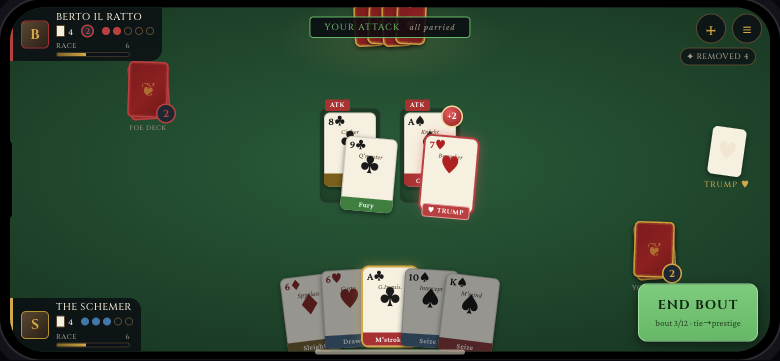
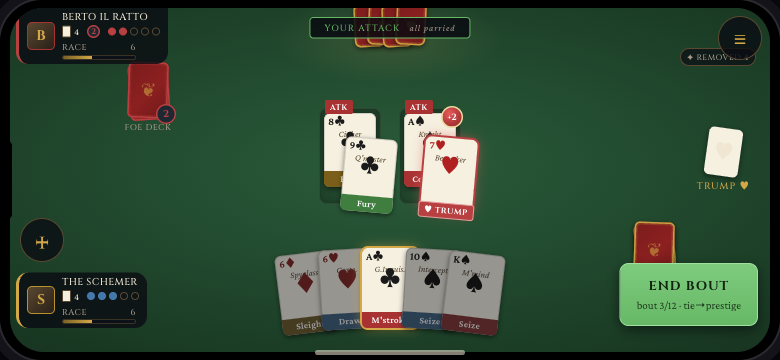
Mobile UI: apply independent UX review (safe areas, legibility, pile-on, log)
Incorporates a cold mobile-UX review of the landscape mockups:
- P0 lifted the hand 24px clear of the home-indicator gesture strip; inset
  identity chips/bars from the notch & home safe areas.
- P0 raised the sub-readable tier: card names 7→9px, ability labels
  7.5→9.5px, deck/race/trump edge labels to 8.5-9.5px, button subtitle 9→11px.
- P0 added the core Durak multi-card PILE-ON / add-follow-up flow (state 3) —
  matching-rank cards glow, a dashed '+ ADD' slot shows where it lands,
  'add another or End Bout' always one tap away. This was the biggest gap.
- P1 tap targets to >=44px (round buttons, action pills, map nodes 40→48px
  with wider spacing); moved the event-log button out of the unreachable
  top-right into left-thumb reach and mocked the full log sheet (state 10).
- P1 defined tap behavior for the deck/trump/removed reference chips and the
  defend re-select edge case; concede now behind a confirm in the menu.
- Added PostMatch ability/relic-pick screen; legible glyphs for log/deck buttons.

24 screens/states total. Verified each in a mobile viewport via Playwright.

Claude-Session: https://claude.ai/code/session_01LuAbzXxZ2J3iKkxCU8R9Y9

diff --git a/docs/design/mobile_ui_mockup.html b/docs/design/mobile_ui_mockup.html
@@ -65,8 +65,8 @@
   .card{position:relative; border-radius:6px; background:var(--card-cream); box-shadow:0 2px 5px rgba(0,0,0,.5), inset 0 0 0 1px rgba(0,0,0,.15); flex-shrink:0;}
   .card .cn{position:absolute; top:3px; left:4px; font-size:11px; font-weight:700; line-height:1; font-family:'Crimson Pro',serif;}
   .card .pip{position:absolute; top:38%; left:50%; transform:translate(-50%,-50%); font-size:20px;}
-  .card .nm{position:absolute; top:15px; left:0; right:0; text-align:center; font-size:7px; font-style:italic; color:#5A4A32; font-family:'Crimson Pro',serif; padding:0 2px; line-height:1;}
-  .card .abl{position:absolute; bottom:0; left:0; right:0; height:13px; display:flex; align-items:center; justify-content:center; font-size:7.5px; font-weight:700; color:#fff; border-radius:0 0 5px 5px; letter-spacing:.2px;}
+  .card .nm{position:absolute; top:16px; left:0; right:0; text-align:center; font-size:9px; font-style:italic; color:#5A4A32; font-family:'Crimson Pro',serif; padding:0 2px; line-height:1;}
+  .card .abl{position:absolute; bottom:0; left:0; right:0; height:16px; display:flex; align-items:center; justify-content:center; font-size:9.5px; font-weight:700; color:#fff; border-radius:0 0 5px 5px; letter-spacing:.2px;}
   .card.red .cn,.card.red .pip{color:var(--red-suit);}
   .card.black .cn,.card.black .pip{color:var(--black-suit);}
   .abl.atk{background:var(--atk);} .abl.def{background:var(--def);} .abl.util{background:var(--util);} .abl.pas{background:var(--pas);}
@@ -77,13 +77,14 @@
   .card.sel{box-shadow:0 0 0 2.5px #FFE9A8, 0 0 22px rgba(255,233,168,.85), 0 6px 14px rgba(0,0,0,.6);}
 
   .bonus{position:absolute; top:-7px; right:-7px; z-index:5; width:22px; height:22px; border-radius:50%; background:radial-gradient(circle at 35% 30%,#E45A5A,var(--atk) 70%); border:1.5px solid #F0D9A0; color:#fff; font-family:'Cinzel',serif; font-weight:700; font-size:9px; display:flex; align-items:center; justify-content:center;}
-  .tflag{position:absolute; bottom:-7px; left:50%; transform:translateX(-50%); z-index:6; background:var(--venetian-red); color:#fff; font-family:'Cinzel',serif; font-size:6.5px; font-weight:700; letter-spacing:.5px; padding:1px 5px; border-radius:3px; white-space:nowrap; border:1px solid #E8A0A0;}
+  .tflag{position:absolute; bottom:-7px; left:50%; transform:translateX(-50%); z-index:6; background:var(--venetian-red); color:#fff; font-family:'Cinzel',serif; font-size:8px; font-weight:700; letter-spacing:.5px; padding:1px 5px; border-radius:3px; white-space:nowrap; border:1px solid #E8A0A0;}
   .card.trumpdef{box-shadow:0 0 0 2px var(--venetian-red), 0 0 12px rgba(220,90,90,.6);}
 
   /* ============ COMPACT IDENTITY STRIP ============ */
   .idstrip{position:absolute; display:flex; align-items:center; gap:7px; padding:4px 8px; background:rgba(10,12,18,.82); border-radius:0 0 12px 0; z-index:30;}
-  .idstrip.top{top:0; left:0; border-left:3px solid var(--venetian-red);}
-  .idstrip.bottom{bottom:0; left:0; border-radius:0 12px 0 0; border-left:3px solid var(--gold);}
+  /* insets keep the always-read player chip clear of the left notch and bottom home strip */
+  .idstrip.top{top:0; left:6px; border-radius:0 0 12px 12px; border-left:3px solid var(--venetian-red);}
+  .idstrip.bottom{bottom:24px; left:6px; border-radius:12px; border-left:3px solid var(--gold);}
   .av{width:28px; height:28px; border-radius:5px; background:linear-gradient(135deg,#5A4830,#2A2018); border:1px solid var(--gold-dark); display:flex; align-items:center; justify-content:center; font-family:'Cinzel',serif; font-weight:700; font-size:14px; color:var(--gold); flex-shrink:0;}
   .idmeta{display:flex; flex-direction:column; gap:2px;}
   .idname{font-family:'Cinzel',serif; font-size:10px; color:var(--parchment); letter-spacing:.3px; line-height:1;}
@@ -97,7 +98,7 @@
   .pd.intel{background:var(--royal-blue); border-color:var(--royal-blue);} .pd.fury{background:var(--venetian-red); border-color:var(--venetian-red);}
   /* race meter mini */
   .race{width:74px;}
-  .race .rl{display:flex; justify-content:space-between; font-size:7px; letter-spacing:.5px; color:var(--dusty-tan); font-family:'Cinzel',serif;}
+  .race .rl{display:flex; justify-content:space-between; font-size:8.5px; letter-spacing:.5px; color:var(--dusty-tan); font-family:'Cinzel',serif;}
   .race .rb{height:5px; border-radius:3px; background:#0C1018; border:1px solid rgba(90,72,48,.6); margin-top:1px; overflow:hidden;}
   .race .rb i{display:block; height:100%; background:linear-gradient(90deg,#7A6224,var(--gold));}
 
@@ -107,17 +108,17 @@
   .deckpile .pc:nth-child(1){transform:rotate(-4deg) translate(1px,2px);}
   .deckpile .pc:nth-child(2){transform:rotate(2deg);}
   .deckpile .cnt{position:absolute; right:-8px; bottom:-6px; width:20px; height:20px; border-radius:50%; background:var(--dark-slate); border:1.5px solid var(--gold); color:var(--gold); font-family:'Cinzel',serif; font-weight:700; font-size:10px; display:flex; align-items:center; justify-content:center; z-index:4;}
-  .deckpile .pl{position:absolute; left:50%; transform:translateX(-50%); bottom:-15px; font-family:'Cinzel',serif; font-size:6.5px; letter-spacing:.5px; color:var(--dusty-tan); white-space:nowrap;}
+  .deckpile .pl{position:absolute; left:50%; transform:translateX(-50%); bottom:-15px; font-family:'Cinzel',serif; font-size:8.5px; letter-spacing:.5px; color:var(--dusty-tan); white-space:nowrap;}
 
   /* trump chip */
   .trump{position:absolute; z-index:25; display:flex; flex-direction:column; align-items:center; gap:3px;}
   .trump .tc{width:34px; height:48px; border-radius:5px; background:var(--card-cream); display:flex; align-items:center; justify-content:center; font-size:20px; box-shadow:0 2px 6px rgba(0,0,0,.5); transform:rotate(8deg);}
-  .trump .tl{font-family:'Cinzel',serif; font-size:8px; letter-spacing:1px; color:var(--gold);}
+  .trump .tl{font-family:'Cinzel',serif; font-size:9.5px; letter-spacing:1px; color:var(--gold);}
 
   /* bout */
   .bout{position:absolute; left:50%; top:43%; transform:translate(-50%,-50%); display:flex; gap:18px; z-index:15;}
   .slot{position:relative; width:62px; height:96px; border-radius:8px; background:rgba(0,0,0,.2); box-shadow:inset 0 0 8px rgba(0,0,0,.35), inset 0 0 0 1px rgba(240,230,210,.12);}
-  .slot .rfa{position:absolute; top:-8px; left:6px; font-family:'Cinzel',serif; font-size:6.5px; font-weight:700; letter-spacing:.5px; padding:1px 5px; border-radius:2px; color:#fff; z-index:5;}
+  .slot .rfa{position:absolute; top:-8px; left:6px; font-family:'Cinzel',serif; font-size:8px; font-weight:700; letter-spacing:.5px; padding:1px 5px; border-radius:2px; color:#fff; z-index:5;}
   .rfa.atk{background:var(--atk);} .rfa.dfn{background:var(--def);}
   .slot .atkc{position:absolute; top:5px; left:5px;}
   .slot .defc{position:absolute; top:30px; left:24px; transform:rotate(5deg); z-index:2;}
@@ -132,26 +133,26 @@
   .ohand .card{width:30px; height:43px; margin:0 -8px;}
   .ohand .card:nth-child(odd){transform:rotate(-3deg) translateY(2px);} .ohand .card:nth-child(even){transform:rotate(3deg);}
 
-  /* player hand fan */
-  .phand{position:absolute; bottom:6px; left:50%; transform:translateX(-50%); display:flex; align-items:flex-end; z-index:35;}
-  .phand .card{width:54px; height:78px; margin:0 -7px; transition:transform .12s;}
-  .phand .card .pip{font-size:22px;} .phand .card .nm{font-size:7px;}
-  .phand .card:nth-child(1){transform:rotate(-7deg) translateY(8px);}
-  .phand .card:nth-child(2){transform:rotate(-3.5deg) translateY(2px);}
+  /* player hand fan — lifted clear of the home-indicator gesture strip */
+  .phand{position:absolute; bottom:24px; left:50%; transform:translateX(-50%); display:flex; align-items:flex-end; z-index:35;}
+  .phand .card{width:56px; height:80px; margin:0 -7px; transition:transform .12s;}
+  .phand .card .pip{font-size:22px;} .phand .card .nm{font-size:9px;}
+  .phand .card:nth-child(1){transform:rotate(-7deg) translateY(5px);}
+  .phand .card:nth-child(2){transform:rotate(-3.5deg) translateY(1px);}
   .phand .card:nth-child(3){transform:rotate(0deg);}
-  .phand .card:nth-child(4){transform:rotate(3.5deg) translateY(2px);}
-  .phand .card:nth-child(5){transform:rotate(7deg) translateY(8px);}
-  .phand .card:nth-child(6){transform:rotate(10deg) translateY(16px);}
+  .phand .card:nth-child(4){transform:rotate(3.5deg) translateY(1px);}
+  .phand .card:nth-child(5){transform:rotate(7deg) translateY(5px);}
+  .phand .card:nth-child(6){transform:rotate(10deg) translateY(10px);}
 
   /* primary action button (thumb zone, bottom-right) */
-  .actbtn{position:absolute; bottom:10px; right:12px; z-index:40; min-width:120px; padding:11px 16px; border-radius:9px; text-align:center; font-family:'Cinzel',serif; font-weight:700; font-size:13px; letter-spacing:1px; box-shadow:0 4px 12px rgba(0,0,0,.5);}
+  .actbtn{position:absolute; bottom:26px; right:12px; z-index:40; min-width:120px; padding:12px 16px; border-radius:9px; text-align:center; font-family:'Cinzel',serif; font-weight:700; font-size:13px; letter-spacing:1px; box-shadow:0 4px 12px rgba(0,0,0,.5);}
   .actbtn.end{background:linear-gradient(180deg,#7ECB7E,var(--sage)); color:#10240F; border:1px solid #9FE09F;}
   .actbtn.take{background:linear-gradient(180deg,#D05858,var(--venetian-red)); color:#fff; border:1px solid #E08888;}
   .actbtn.dis{background:#222A36; color:#5A6470; border:1px solid #333E4E;}
-  .actbtn .small{display:block; font-family:'Crimson Pro',serif; font-size:9px; font-weight:400; letter-spacing:0; opacity:.8; margin-top:1px;}
+  .actbtn .small{display:block; font-family:'Crimson Pro',serif; font-size:11px; font-weight:400; letter-spacing:0; opacity:.85; margin-top:1px;}
 
-  /* secondary round buttons (log, menu) top-right */
-  .roundbtn{position:absolute; z-index:40; width:30px; height:30px; border-radius:50%; background:rgba(10,12,18,.8); border:1px solid var(--bronze); color:var(--gold); display:flex; align-items:center; justify-content:center; font-size:13px;}
+  /* secondary round buttons — 44px tap targets */
+  .roundbtn{position:absolute; z-index:40; width:44px; height:44px; border-radius:50%; background:rgba(10,12,18,.8); border:1px solid var(--bronze); color:var(--gold); display:flex; align-items:center; justify-content:center; font-size:18px;}
 
   /* bonus counters near decks */
   .minitag{position:absolute; z-index:22; font-family:'Cinzel',serif; font-size:8px; letter-spacing:.5px; color:var(--dusty-tan); background:rgba(10,12,18,.7); padding:2px 6px; border-radius:10px; border:1px solid var(--bronze); display:flex; align-items:center; gap:3px;}
@@ -165,10 +166,10 @@
 
   /* contextual action pills above hand */
   .ctxbar{position:absolute; bottom:92px; left:50%; transform:translateX(-50%); z-index:48; display:flex; gap:8px;}
-  .pill{padding:9px 16px; border-radius:22px; font-family:'Cinzel',serif; font-weight:700; font-size:12px; letter-spacing:.5px; box-shadow:0 4px 12px rgba(0,0,0,.5);}
+  .pill{min-height:44px; padding:12px 18px; border-radius:24px; display:flex; align-items:center; font-family:'Cinzel',serif; font-weight:700; font-size:12.5px; letter-spacing:.5px; box-shadow:0 4px 12px rgba(0,0,0,.5);}
   .pill.go{background:linear-gradient(180deg,#7ECB7E,var(--sage)); color:#10240F; border:1px solid #9FE09F;}
   .pill.alt{background:linear-gradient(180deg,#E0C060,var(--gold)); color:#241A06; border:1px solid #F0D98A;}
-  .pill.x{background:#222A36; color:#9aa; border:1px solid #333E4E; padding:9px 13px;}
+  .pill.x{background:#222A36; color:#bcc; border:1px solid #333E4E; padding:12px 16px; font-size:15px;}
 
   /* bottom sheet (ability choice, etc.) */
   .scrim{position:absolute; inset:0; background:rgba(4,4,9,.72); z-index:52;}
@@ -212,9 +213,9 @@
   .rlabel{font-family:'Cinzel',serif; font-size:9px; font-weight:700; letter-spacing:2px; text-align:center; margin-top:5px;}
 
   /* map nodes */
-  .mnode{position:absolute; width:40px; height:40px; border-radius:50%; background:rgba(20,16,10,.85); border:2px solid var(--bronze); display:flex; align-items:center; justify-content:center; font-size:17px; z-index:4;}
+  .mnode{position:absolute; width:48px; height:48px; border-radius:50%; background:rgba(20,16,10,.85); border:2px solid var(--bronze); display:flex; align-items:center; justify-content:center; font-size:20px; z-index:4;}
   .mnode.cur{border-color:var(--gold); box-shadow:0 0 12px rgba(212,168,70,.6);}
-  .mnode .lbl{position:absolute; top:42px; font-family:'Cinzel',serif; font-size:7px; letter-spacing:.5px; color:var(--dusty-tan); white-space:nowrap;}
+  .mnode .lbl{position:absolute; top:49px; font-family:'Cinzel',serif; font-size:8px; letter-spacing:.5px; color:var(--dusty-tan); white-space:nowrap;}
   .mpath{position:absolute; height:2px; background:rgba(120,96,56,.5); transform-origin:left center; z-index:2;}
 
   /* shop/event rows */
@@ -262,7 +263,12 @@
     <h4>6 · REFERENCE EXPANDS ON DEMAND</h4>
     <p>The event log, full deck, and removed pile collapse to <span class="k">tappable counters</span>; tapping opens a sheet. Transient events (ability fired, trump changed) flash as a <span class="k">toast</span> and append to the log, so nothing critical is hover-only or blink-and-miss.</p>
   </div>
+  <div class="ia">
+    <h4>7 · SAFE AREAS RESPECTED</h4>
+    <p>Identity chips inset from the <span class="k">left notch / Dynamic Island</span>; the hand and all bottom bars sit a clear <span class="k">24px above the home-indicator</span> strip so a play-swipe never fights the system home gesture. The right thumb owns the commit button; the left thumb owns the log.</p>
+  </div>
 </div>
+<p class="intro" style="margin-top:8px"><b>This revision</b> incorporates an independent cold mobile-UX review: the hand was lifted off the home strip, card/label type raised from 7px to a readable tier, tap targets brought to ≥44px, the log moved into thumb reach, map nodes enlarged &amp; spaced, and the core <b>multi-card pile-on flow</b> (state 3) and <b>event-log sheet</b> (state 10) added.</p>
 
 <!-- ============================ THE MATCH BOARD ============================ -->
 <h2>The Match Board <span class="tag">— landscape, mid-bout, your turn to attack</span></h2>
@@ -291,9 +297,9 @@
         <!-- opponent hand -->
         <div class="ohand"><div class="card back"></div><div class="card back"></div><div class="card back"></div><div class="card back"></div></div>
 
-        <!-- secondary buttons top-right -->
-        <div class="roundbtn" style="top:6px; right:8px;">☰</div>
-        <div class="roundbtn" style="top:6px; right:44px;">🜊</div>
+        <!-- menu top-right (rarely needed), log moved to left-thumb reach -->
+        <div class="roundbtn" style="top:8px; right:8px;">☰</div>
+        <div class="roundbtn" style="bottom:90px; left:10px;">📜</div>
 
         <!-- phase ribbon -->
         <div class="ribbon">YOUR ATTACK <span class="s">all parried</span></div>
@@ -307,7 +313,7 @@
         </div>
 
         <!-- removed pile counter (off felt, top-right) -->
-        <div class="minitag" style="top:40px; right:14px;">✦ REMOVED 4</div>
+        <div class="minitag" style="top:62px; right:12px;">✦ REMOVED 4</div>
 
         <!-- trump (right edge, on felt) -->
         <div class="trump" style="top:120px; right:20px;">
@@ -419,7 +425,29 @@
     <div class="frame-cap"><b>2 · ATTACK PLAYED</b>The card flies to a bout slot, its ability fires (toast + log entry), and control passes. The action button shows the wait state; the opponent's defense animates back in.</div>
   </div>
 
-  <!-- 3. DEFEND MODE -->
+  <!-- 3. ADD A FOLLOW-UP (multi-card attack — core Durak) -->
+  <div class="frame-block">
+    <div class="phone"><div class="island"></div><div class="home-bar"></div><div class="screen">
+      <div class="felt"></div>
+      <div class="ribbon">YOUR ATTACK <span class="s">add a matching rank, or end</span></div>
+      <div class="bout">
+        <div class="slot"><span class="rfa atk">ATK</span>
+          <div class="atkc card black" style="width:52px;height:74px"><span class="cn">8♣</span><span class="nm">Cipher</span><span class="pip">♣</span></div>
+          <div class="defc card black" style="width:52px;height:74px"><span class="cn">9♣</span><span class="nm">Q'master</span><span class="pip">♣</span></div></div>
+        <div class="slot" style="border:1.5px dashed rgba(212,168,70,.5); background:rgba(212,168,70,.06)"><span class="rfa atk" style="background:var(--gold-dark)">+ ADD</span></div>
+      </div>
+      <div class="ctxbar"><div class="pill go">▲ Add 8♦</div><div class="pill alt">✓ End Bout</div><div class="pill x">✕</div></div>
+      <div class="phand">
+        <div class="card red sel" style="transform:translateY(-22px) scale(1.12)"><span class="cn">8♦</span><span class="nm">Pillager</span><span class="pip">♦</span><span class="abl atk">Rampage</span></div>
+        <div class="card black dim"><span class="cn">K♠</span><span class="pip">♠</span></div>
+        <div class="card red dim"><span class="cn">7♥</span><span class="pip">♥</span></div>
+        <div class="card black dim"><span class="cn">Q♣</span><span class="pip">♣</span></div>
+      </div>
+    </div></div>
+    <div class="frame-cap"><b>3 · PILE ON / ADD A FOLLOW-UP</b>Core Durak: once a rank is on the table you may keep adding attacks of <i>any</i> rank already in play (here an 8). Only matching-rank cards glow; a dashed "+ ADD" slot shows where it lands. The same primary choice — add another or <b>End Bout</b> — is always one tap away.</div>
+  </div>
+
+  <!-- 4. DEFEND MODE -->
   <div class="frame-block">
     <div class="phone"><div class="island"></div><div class="home-bar"></div><div class="screen">
       <div class="felt"></div>
@@ -438,7 +466,7 @@
       </div>
       <div class="finger" style="top:120px; left:300px;">👆</div>
     </div></div>
-    <div class="frame-cap"><b>3 · DEFEND — CHOOSE A SLOT</b>When defending, you pick the card first; only the attacks it can legally beat (rank/trump rules) glow as tap targets. Tap a slot to cover it — or drag the card straight onto it.</div>
+    <div class="frame-cap"><b>4 · DEFEND — CHOOSE A SLOT</b>When defending, you pick the card first; only the attacks it can legally beat (rank/trump rules) glow as tap targets. Tap a slot to cover it — or drag the card straight onto it.</div>
   </div>
 
   <!-- 4. ABILITY CHOICE SHEET -->
@@ -460,7 +488,7 @@
         </div>
       </div>
     </div></div>
-    <div class="frame-cap"><b>4 · OPTIONAL ABILITY</b>The few cards with a player-activated ability (<code>TriggerTiming.None</code> — Trump Changer, Seize) raise a bottom sheet: use the ability, play it as a plain card, or cancel. Auto-trigger cards skip this.</div>
+    <div class="frame-cap"><b>5 · OPTIONAL ABILITY</b>The few cards with a player-activated ability (<code>TriggerTiming.None</code> — Trump Changer, Seize) raise a bottom sheet: use the ability, play it as a plain card, or cancel. Auto-trigger cards skip this.</div>
   </div>
 
   <!-- 5. TAKE CARDS -->
@@ -481,7 +509,7 @@
       </div>
       <div class="actbtn take">TAKE 2 CARDS<span class="small">they join your hand</span></div>
     </div></div>
-    <div class="frame-cap"><b>5 · TAKE CARDS</b>If you can't (or won't) defend, undefended attacks tint red and the primary button becomes <b>TAKE N CARDS</b>. Pressing it pulls them into your hand and your race bar grows — the cost is legible.</div>
+    <div class="frame-cap"><b>6 · TAKE CARDS</b>If you can't (or won't) defend, undefended attacks tint red and the primary button becomes <b>TAKE N CARDS</b>. Pressing it pulls them into your hand and your race bar grows — the cost is legible.</div>
   </div>
 
   <!-- 6. STACK PUT-BACK -->
@@ -498,7 +526,7 @@
       </div>
       <div class="finger" style="bottom:42px; left:50%;">👆</div>
     </div></div>
-    <div class="frame-cap"><b>6 · PUT-BACK SELECTION</b>Abilities like the Archivist's Stack-the-Deck enter a pick mode: the whole hand glows and a tap chooses which card goes on top of your draw pile (<code>OnStackPutBackRequired</code>). The card animates onto the deck.</div>
+    <div class="frame-cap"><b>7 · PUT-BACK SELECTION</b>Abilities like the Archivist's Stack-the-Deck enter a pick mode: the whole hand glows and a tap chooses which card goes on top of your draw pile (<code>OnStackPutBackRequired</code>). The card animates onto the deck.</div>
   </div>
 
   <!-- 7. PEEK / SCRY -->
@@ -517,7 +545,7 @@
         <div class="sbtn primary" style="margin-top:6px; padding:9px 28px; max-width:none;">Done</div>
       </div>
     </div></div>
-    <div class="frame-cap"><b>7 · PEEK / SCRY OVERLAY</b>Scry effects (Cipher, Cartographer) open a focused sheet of the real top cards. The player can reorder by dragging, then dismiss. Full-screen so small board cards aren't the reference.</div>
+    <div class="frame-cap"><b>8 · PEEK / SCRY OVERLAY</b>Scry effects (Cipher, Cartographer) open a focused sheet of the real top cards. The player can reorder by dragging, then dismiss. Full-screen so small board cards aren't the reference.</div>
   </div>
 
   <!-- 8. LONG-PRESS INSPECT -->
@@ -539,7 +567,29 @@
         </div>
       </div>
     </div></div>
-    <div class="frame-cap"><b>8 · LONG-PRESS = STUDY</b>A long-press on any card anywhere (your hand, the bout, even peeking at a played card) opens a large read-only inspector with flavor text. It never commits a play — purely for reading dense ability text.</div>
+    <div class="frame-cap"><b>9 · LONG-PRESS = STUDY</b>A long-press on any card anywhere (your hand, the bout, even an opponent's face-up played card) opens a large read-only inspector with flavor text. It never commits a play — purely for reading dense ability text.</div>
+  </div>
+
+  <!-- 10. EVENT LOG SHEET -->
+  <div class="frame-block">
+    <div class="phone"><div class="island"></div><div class="home-bar"></div><div class="screen">
+      <div class="felt" style="filter:brightness(.5)"></div>
+      <div class="scrim"></div>
+      <div class="sheet" style="bottom:0; max-height:88%;">
+        <h4>TABLE TALK</h4>
+        <div class="sd">everything that happened this match</div>
+        <div style="font-size:11.5px; line-height:1.7; color:var(--dusty-tan); padding:0 4px;">
+          <div><b style="color:var(--parchment)">You</b> attack — 8♣ The Cipher</div>
+          <div><b style="color:var(--parchment)">Berto</b> defends — 9♣ Quartermaster</div>
+          <div><b style="color:var(--parchment)">You</b> attack — A♠ Knight of the Order</div>
+          <div style="color:var(--gold)"><b>You</b> — Knight → Conquer (+2 rank)</div>
+          <div style="color:var(--gold)"><b>Berto</b> defends with trump — 7♥</div>
+          <div>Bout ends — 4 cards removed from the game</div>
+        </div>
+        <div class="sbtn primary" style="margin:12px auto 0; max-width:160px; padding:11px;">Close</div>
+      </div>
+    </div></div>
+    <div class="frame-cap"><b>10 · EVENT LOG (TABLE TALK)</b>The 📜 log button (now in left-thumb reach) opens the full history. Critical because abilities silently mutate both decks — toasts are blink-and-miss, so every attack, defense, trump play, trigger and removal is recorded here, trump plays and abilities highlighted gold.</div>
   </div>
 
 </div>
@@ -574,18 +624,18 @@
       <div class="vbg map"></div>
       <div class="topbar"><span class="tl">♥♥♥♥♥♥</span><span class="tm">⬥ 22</span><span class="tr">Act 2 · Merchant's Rest</span></div>
       <!-- paths -->
-      <div class="mpath" style="left:120px; top:130px; width:120px; transform:rotate(-18deg)"></div>
-      <div class="mpath" style="left:120px; top:150px; width:120px; transform:rotate(14deg)"></div>
-      <div class="mpath" style="left:300px; top:96px; width:130px; transform:rotate(20deg)"></div>
-      <div class="mpath" style="left:300px; top:210px; width:130px; transform:rotate(-16deg)"></div>
-      <div class="mnode cur" style="left:90px; top:130px">⚔<span class="lbl">Silvana</span></div>
-      <div class="mnode" style="left:270px; top:80px">★<span class="lbl">Elite</span></div>
-      <div class="mnode" style="left:270px; top:190px">🛏<span class="lbl">Rest</span></div>
-      <div class="mnode" style="left:450px; top:70px">🛒<span class="lbl">Shop</span></div>
-      <div class="mnode" style="left:450px; top:150px">💬<span class="lbl">Rumor</span></div>
-      <div class="mnode" style="left:450px; top:230px">⚔<span class="lbl">Match</span></div>
-      <div class="mnode" style="left:620px; top:150px">👑<span class="lbl">Boss</span></div>
-      <div class="roundbtn" style="bottom:8px; right:10px;">🂠</div>
+      <div class="mpath" style="left:130px; top:120px; width:140px; transform:rotate(-20deg)"></div>
+      <div class="mpath" style="left:130px; top:150px; width:140px; transform:rotate(20deg)"></div>
+      <div class="mpath" style="left:330px; top:80px; width:160px; transform:rotate(22deg)"></div>
+      <div class="mpath" style="left:330px; top:230px; width:160px; transform:rotate(-22deg)"></div>
+      <div class="mnode cur" style="left:88px; top:118px">⚔<span class="lbl">Silvana</span></div>
+      <div class="mnode" style="left:288px; top:62px">★<span class="lbl">Elite</span></div>
+      <div class="mnode" style="left:288px; top:188px">🛏<span class="lbl">Rest</span></div>
+      <div class="mnode" style="left:500px; top:46px">🛒<span class="lbl">Shop</span></div>
+      <div class="mnode" style="left:500px; top:150px">💬<span class="lbl">Rumor</span></div>
+      <div class="mnode" style="left:500px; top:254px">⚔<span class="lbl">Match</span></div>
+      <div class="mnode" style="left:670px; top:150px">👑<span class="lbl">Boss</span></div>
+      <div class="roundbtn" style="bottom:34px; right:10px;">📚</div>
     </div></div>
     <div class="frame-cap"><b>MAP / VENUE</b>Branching node path, scrollable horizontally if an act is long. Current position glows gold; reachable nodes are bright, locked ones dim. The deck button (bottom-right) opens the deck viewer anywhere.</div>
   </div>
@@ -737,7 +787,9 @@
     <li><b>Primary button</b> → context-driven single commit: <code>END BOUT</code> (attacker, all parried) / <code>TAKE N CARDS</code> (defender) / disabled (waiting).</li>
     <li><b>Long-press anything</b> → large read-only card inspector with flavor; never commits.</li>
     <li><b>Bottom sheet</b> → optional-ability choice, stack put-back prompt, peek/scry reorder. Modal, dismissable.</li>
-    <li><b>Round buttons (top-right)</b> → ☰ menu/concede, 🜊 event log history. 🂠 deck viewer on meta screens.</li>
+    <li><b>📜 log button (bottom-left, left thumb)</b> → opens the full Table Talk history; ☰ menu (top-right) holds settings &amp; <b>Concede</b> (with a confirm step). 📚 opens the deck viewer on meta screens.</li>
+    <li><b>Tappable reference chips</b> → tapping <b>your deck pile</b> opens the deck viewer; <b>the trump card</b> shows a one-line rule reminder; <b>the removed counter</b> opens the removed-pile sheet. They're enlarged enough to hit, but never block the play path.</li>
+    <li><b>Defend edge case</b> → while a card is held for defense, tapping a <i>different</i> hand card re-selects it (recomputes the legal slots); tapping ✕ or the held card deselects.</li>
   </ul>
   <h4>WHAT MOVED, AND WHY</h4>
   <ul>
